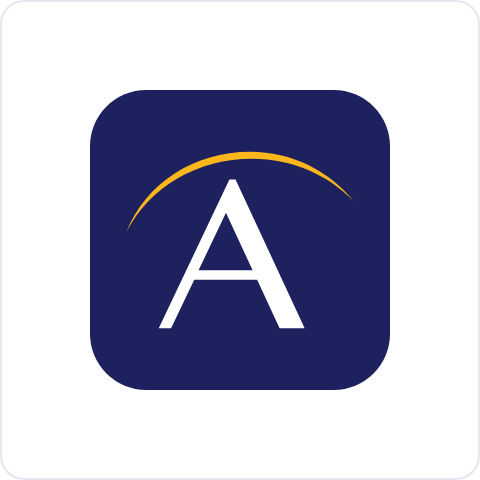
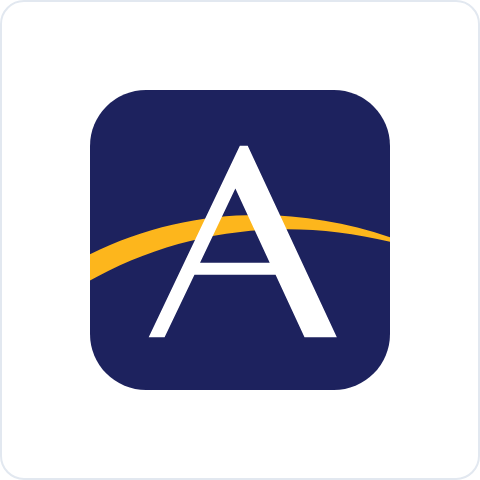
Use the drawn A mark, the arc running through the letter
The mark roles resolve to mark-on-light.svg and mark-on-dark.svg: the A
with the gold arc through it, from the delivered favicon artwork, with
its blue and gold normalised to the lockups. app-icon.svg is the white
mark on a navy square. This replaces the icon assembled in the last
commit.

diff --git a/for-humans/Apex-Paramedics-logo-sheet.html b/for-humans/Apex-Paramedics-logo-sheet.html
@@ -81,6 +81,7 @@ header {
 .plate.horizontal img { width: 2.4in; }
 .plate.compact img { width: 2.1in; }
 .plate.icon img { width: 1in; }
+.plate.mark img { width: 1in; }
 
 .caption {
   color: var(--fg-3);
@@ -138,7 +139,7 @@ footer {
 
   <div class="block">
     <p class="bk-eyebrow eyebrow bk-caps">The marks</p>
-    <h1 class="bk-h1" style="margin:0;">Two lockups and an app icon</h1>
+    <h1 class="bk-h1" style="margin:0;">Two lockups, the A mark and an app icon</h1>
     <p class="bk-body" style="color:var(--fg-2);">
       Pick by the background. The file named <strong>blue</strong> goes on light. The file named <strong>white</strong> goes on dark. The name is the ink of the letters, not the ground. The arc is gold in every file.
     </p>
@@ -161,8 +162,16 @@ footer {
         <p class="bk-caption caption">Compact · white · on dark</p>
       </div>
       <div>
+        <div class="plate light mark"><img src="logos/svg/Apex-Paramedics-mark-blue.svg" alt="Apex A mark in blue"></div>
+        <p class="bk-caption caption">A mark · blue · on light</p>
+      </div>
+      <div>
+        <div class="plate dark mark"><img src="logos/svg/Apex-Paramedics-mark-white.svg" alt="Apex A mark in white"></div>
+        <p class="bk-caption caption">A mark · white · on dark</p>
+      </div>
+      <div>
         <div class="plate light icon"><img src="logos/svg/Apex-Paramedics-app-icon.svg" alt="Apex Paramedics app icon"></div>
-        <p class="bk-caption caption">App icon · favicons and small spaces · any ground</p>
+        <p class="bk-caption caption">App icon · favicons · any ground</p>
       </div>
     </div>
   </div>
@@ -177,7 +186,7 @@ footer {
         <tr><td class="bk-body">Clear space on all four sides</td><td class="bk-body">Height of the gold arc</td></tr>
         <tr><td class="bk-body">Horizontal lockup, minimum</td><td class="bk-body">110 px on screen · 1 inch in print</td></tr>
         <tr><td class="bk-body">Compact lockup, minimum</td><td class="bk-body">80 px on screen · 0.75 inch in print</td></tr>
-        <tr><td class="bk-body">App icon, minimum</td><td class="bk-body">16 px on screen</td></tr>
+        <tr><td class="bk-body">A mark and app icon, minimum</td><td class="bk-body">16 px on screen</td></tr>
         <tr><td class="bk-body">Logo width in a header band</td><td class="bk-body">1.4in to 1.8in</td></tr>
       </tbody>
     </table>

diff --git a/for-humans/README.md b/for-humans/README.md
@@ -28,11 +28,13 @@ Pick by the background you are placing it on. The file named **blue** goes on li
 | <img src="previews/horizontal-white.png" width="250"> | **Horizontal · white**<br>The same lockup for dark blue grounds. | [SVG](logos/svg/Apex-Paramedics-horizontal-white.svg)<br>PNG [1200w](logos/png/Apex-Paramedics-horizontal-white-1200w.png) · [2400w](logos/png/Apex-Paramedics-horizontal-white-2400w.png) |
 | <img src="previews/compact-blue.png" width="250"> | **Compact · blue**<br>`APEX` alone under the arc. Small places, a deck corner, a narrow column. Place on white and light grounds. | [SVG](logos/svg/Apex-Paramedics-compact-blue.svg)<br>PNG [1200w](logos/png/Apex-Paramedics-compact-blue-1200w.png) · [2400w](logos/png/Apex-Paramedics-compact-blue-2400w.png) |
 | <img src="previews/compact-white.png" width="250"> | **Compact · white**<br>The same lockup for dark blue grounds. | [SVG](logos/svg/Apex-Paramedics-compact-white.svg)<br>PNG [1200w](logos/png/Apex-Paramedics-compact-white-1200w.png) · [2400w](logos/png/Apex-Paramedics-compact-white-2400w.png) |
-| <img src="previews/app-icon.png" width="110"> | **App icon**<br>The A under the arc, on a dark blue square. Favicons, app tiles, social avatars, and anywhere too small for the compact lockup. It always keeps its square. | [SVG](logos/svg/Apex-Paramedics-app-icon.svg)<br>PNG [512](logos/png/Apex-Paramedics-app-icon-512w.png) · [1024](logos/png/Apex-Paramedics-app-icon-1024w.png) |
+| <img src="previews/mark-blue.png" width="110"> | **A mark · blue**<br>The A with the arc through it. Avatars, badges and anywhere too small for the compact lockup. Place on white and light grounds. | [SVG](logos/svg/Apex-Paramedics-mark-blue.svg)<br>PNG [512](logos/png/Apex-Paramedics-mark-blue-512w.png) · [1024](logos/png/Apex-Paramedics-mark-blue-1024w.png) |
+| <img src="previews/mark-white.png" width="110"> | **A mark · white**<br>The same mark for dark blue grounds. | [SVG](logos/svg/Apex-Paramedics-mark-white.svg)<br>PNG [512](logos/png/Apex-Paramedics-mark-white-512w.png) · [1024](logos/png/Apex-Paramedics-mark-white-1024w.png) |
+| <img src="previews/app-icon.png" width="110"> | **App icon**<br>The white A mark on a dark blue square. Favicons and app tiles. | [SVG](logos/svg/Apex-Paramedics-app-icon.svg)<br>PNG [512](logos/png/Apex-Paramedics-app-icon-512w.png) · [1024](logos/png/Apex-Paramedics-app-icon-1024w.png) |
 
 **Use the SVG wherever the software will take it.** It is vector, so it stays sharp at any size. The PNGs are for software that will not accept SVG. They have transparent backgrounds, so the white versions look nearly blank until you place them on something dark.
 
-Use the horizontal lockup wherever it fits. The compact one is for places it does not. Under 80 px, use the app icon.
+Use the horizontal lockup wherever it fits. The compact one is for places it does not. Under 80 px, use the A mark.
 
 
 Pasting a URL straight into a design tool works too. The pattern is:
@@ -52,7 +54,7 @@ https://cdn.jsdelivr.net/gh/collective-edge/apex-brand-kit@main/for-humans/logos
 | Clear space on all four sides | Equal to the height of the gold arc |
 | Smallest the horizontal lockup may go | 110 px on screen, 1 inch in print |
 | Smallest the compact lockup may go | 80 px on screen, 0.75 inch in print |
-| Smallest the app icon may go | 16 px on screen |
+| Smallest the A mark and the app icon may go | 16 px on screen |
 | Logo width in a letterhead header band | 1.4in to 1.8in |
 
 ## Do not
@@ -63,6 +65,7 @@ https://cdn.jsdelivr.net/gh/collective-edge/apex-brand-kit@main/for-humans/logos
 - Render the arc in blue or the letters in gold.
 - Add a drop shadow, glow, outline or gradient.
 - Pull the letters apart from the arc, or use the arc on its own. The arc alone is not an Apex logo.
+- Redraw the A mark. Use the file.
 - Use the compact lockup where the horizontal one fits.
 - Put it on a busy photo without a solid backing panel behind it.
 - Crop the clear space to make it fit. Shrink the logo instead, down to the minimum.

diff --git a/README.md b/README.md
@@ -17,7 +17,8 @@ The file named for its ink goes on the opposite background. Full set, sizes and 
 | | For light backgrounds | For dark backgrounds |
 |---|---|---|
 | Horizontal · the main logo | [SVG](for-humans/logos/svg/Apex-Paramedics-horizontal-blue.svg) · [PNG](for-humans/logos/png/Apex-Paramedics-horizontal-blue-1200w.png) | [SVG](for-humans/logos/svg/Apex-Paramedics-horizontal-white.svg) · [PNG](for-humans/logos/png/Apex-Paramedics-horizontal-white-1200w.png) |
-| App icon · favicons and small spaces | [SVG](for-humans/logos/svg/Apex-Paramedics-app-icon.svg) · [PNG](for-humans/logos/png/Apex-Paramedics-app-icon-512w.png) | same file |
+| A mark · small spaces | [SVG](for-humans/logos/svg/Apex-Paramedics-mark-blue.svg) · [PNG](for-humans/logos/png/Apex-Paramedics-mark-blue-512w.png) | [SVG](for-humans/logos/svg/Apex-Paramedics-mark-white.svg) · [PNG](for-humans/logos/png/Apex-Paramedics-mark-white-512w.png) |
+| App icon · favicons | [SVG](for-humans/logos/svg/Apex-Paramedics-app-icon.svg) · [PNG](for-humans/logos/png/Apex-Paramedics-app-icon-512w.png) | same file |
 | Compact | [SVG](for-humans/logos/svg/Apex-Paramedics-compact-blue.svg) · [PNG](for-humans/logos/png/Apex-Paramedics-compact-blue-1200w.png) | [SVG](for-humans/logos/svg/Apex-Paramedics-compact-white.svg) · [PNG](for-humans/logos/png/Apex-Paramedics-compact-white-1200w.png) |
 
 ## The house
@@ -74,7 +75,7 @@ apex-brand-kit/
 └── assets/
     ├── colors.json                 DEPRECATED. Replaced by tokens.json.
     ├── fonts/Montserrat-VariableFont_wght.ttf
-    └── logos/                      horizontal and compact, color and white, the app icon, plus the source EPS.
+    └── logos/                      horizontal, compact and the A mark, color and white, the app icon, plus the source EPS.
 ```
 
 Sixteen files are byte-identical in every kit, covering the type layer, the UI layer, the data color layer and the tooling. `scripts/check-sync.py` carries the list and fails if any of them drifts. Never edit a shared file in this repo alone.
@@ -121,13 +122,16 @@ Ask for a role, never a filename. `-on-light` is the file you place on a light b
 | `horizontal-on-dark` | `assets/logos/horizontal-white.svg` |
 | `compact-on-light` | `assets/logos/compact-on-light.svg` |
 | `compact-on-dark` | `assets/logos/compact-on-dark.svg` |
-| `mark-on-light`, `mark-on-dark` | Apex has none. Use the compact lockup. |
-| `app-icon` | `assets/logos/app-icon.svg` · favicons, app tiles, and spaces under 80px |
+| `mark-on-light` | `assets/logos/mark-on-light.svg` |
+| `mark-on-dark` | `assets/logos/mark-on-dark.svg` |
+| `app-icon` | `assets/logos/app-icon.svg` · the mark on a navy square, for favicons and app tiles |
 | `stacked-on-dark` | Apex has none. Use `horizontal-on-dark`. |
 
 The horizontal lockup is the main logo, `APEX PARAMEDICS`, at 110px and up. The compact lockup is `APEX` alone, for smaller places, decks, or a corner, at 80px and up.
 
-**The gold arc never appears on its own.** A favicon, an app tile, or a space too small for the compact lockup uses `app-icon.svg`: the A under the arc, on a navy square. `mark-color.svg` and `mark-white.svg` held the arc alone. They are deleted, and `scripts/validate.py` fails on any reference to them.
+The mark is the A with the gold arc running through it. Use it for a favicon, an avatar, or any space too small for the compact lockup. `app-icon.svg` is the same mark on a navy square.
+
+**The gold arc never appears on its own.** `mark-color.svg` and `mark-white.svg` held the arc alone. They are deleted, and `scripts/validate.py` fails on any reference to them.
 
 Reference the CDN URL directly with `<img src="...">`. The repository is public and jsDelivr needs no auth. `assets/logos/source/apex-paramedics-PMS123-PMS072.eps` is the authoritative master for any re-export.
 

diff --git a/reference/brand.md b/reference/brand.md
@@ -154,11 +154,12 @@ Status indicators stay in the status set. Decorative off-brand color is still ne
 |---|---|---|
 | Horizontal | The blue `APEX PARAMEDICS` wordmark under the gold arc | The main logo. Default for any context with horizontal room |
 | Compact | `APEX` alone under the gold arc | Smaller places, decks, or a corner |
-| App icon | The A under the gold arc, on an Apex Blue Deep `#1D225E` square | Favicons, app tiles, social avatars, and any space too small for the compact lockup. `assets/logos/app-icon.svg` |
+| Mark | The A with the gold arc running through it | Avatars, badges, table corners, and any space too small for the compact lockup |
+| App icon | The white mark on an Apex Blue Deep `#1D225E` square | Favicons and app tiles. `assets/logos/app-icon.svg` |
 
-The gold arc never appears without the letters, at any size. The arc-only files `mark-color.svg` and `mark-white.svg` are deleted, and `scripts/validate.py` fails on any reference to them. Where another brand would place a mark, Apex places the compact lockup, and below its 80px minimum, the app icon.
+The gold arc never appears on its own, at any size. The arc-only files `mark-color.svg` and `mark-white.svg` are deleted, and `scripts/validate.py` fails on any reference to them.
 
-The app icon is built from the lockup’s own A and arc, the arc scaled to sit over the one letter. It has no light-ground variant. It always carries its navy square.
+In the mark the arc is cut square at the left and right edges of the box. That is the drawing, not a cropping error. The delivered files carried `#000F9F` and `#FFB71B`, normalised here to `#2B338D` and `#FDB61C` like the compact lockup.
 
 Apex has no stacked lockup. Where a vertical lockup is needed, use the horizontal one at reduced width.
 
@@ -170,13 +171,14 @@ Apex has no stacked lockup. Where a vertical lockup is needed, use the horizonta
 | Horizontal aspect | 2.378 : 1 |
 | Compact viewBox | `0 0 682.3 240.66` |
 | Compact aspect | 2.835 : 1 |
-| App icon viewBox | `0 0 64 64` |
+| Mark viewBox | `0 0 300 299.36` |
+| App icon viewBox | `0 0 300 300` |
 | Wordmark color | Apex Blue `#2B338D`, or `#FFFFFF` on dark |
 | Arc color | Apex Gold `#FDB61C`, on both light and dark |
 | Minimum clear space | Padding on all four sides equal to at least the height of the gold arc |
 | Minimum size, horizontal | 110px on screen, 1 inch in print |
 | Minimum size, compact | 80px on screen, 0.75 inch in print |
-| Minimum size, app icon | 32px, and 16px as a browser tab icon |
+| Minimum size, mark and app icon | 16px |
 | Vector master | `assets/logos/source/apex-paramedics-PMS123-PMS072.eps` |
 
 The shipping SVGs are converted from the EPS, which remains the authoritative master for any future re-export.
@@ -198,7 +200,7 @@ The `-on-dark` SVG is the correct file for the `#1D225E` band. Where only the co
 - Do not recolor the logo to anything other than Apex Blue plus Apex Gold, or white plus gold on dark.
 - Do not apply a CSS filter to invert or recolor a variant. Load the correct file for the ground.
 - Do not add a drop shadow, glow, outline or gradient.
-- Do not separate the wordmark from the arc, in either lockup. The arc alone is not an Apex logo.
+- Do not separate the wordmark from the arc, in either lockup, or the A from the arc in the mark. The arc alone is not an Apex logo.
 - Do not use the compact lockup where the horizontal one fits. `APEX PARAMEDICS` is the main logo.
 - Do not render the arc in blue or the wordmark in gold.
 - Do not reproduce the logo below its minimum size.

diff --git a/for-agents/README.md b/for-agents/README.md
@@ -49,11 +49,13 @@ Ask for a role, never a filename. Filenames differ between brands. `-on-light` i
 | `horizontal-on-dark` | `https://cdn.jsdelivr.net/gh/collective-edge/apex-brand-kit@main/assets/logos/horizontal-white.svg` | A dark background |
 | `compact-on-light` | `https://cdn.jsdelivr.net/gh/collective-edge/apex-brand-kit@main/assets/logos/compact-on-light.svg` | A light background |
 | `compact-on-dark` | `https://cdn.jsdelivr.net/gh/collective-edge/apex-brand-kit@main/assets/logos/compact-on-dark.svg` | A dark background |
-| `app-icon` | `https://cdn.jsdelivr.net/gh/collective-edge/apex-brand-kit@main/assets/logos/app-icon.svg` | Favicons, app tiles, spaces under 80px |
+| `mark-on-light` | `https://cdn.jsdelivr.net/gh/collective-edge/apex-brand-kit@main/assets/logos/mark-on-light.svg` | A light background |
+| `mark-on-dark` | `https://cdn.jsdelivr.net/gh/collective-edge/apex-brand-kit@main/assets/logos/mark-on-dark.svg` | A dark background |
+| `app-icon` | `https://cdn.jsdelivr.net/gh/collective-edge/apex-brand-kit@main/assets/logos/app-icon.svg` | Favicons and app tiles. Carries its own navy square |
 
 `stacked-on-dark` does not exist for this brand. Use `horizontal-on-dark`.
 
-`mark-on-light` and `mark-on-dark` do not exist for this brand. The arc-only files are deleted and `validate.py` fails on any reference to them. Use the compact lockup, or `app-icon` under 80px.
+The mark is the A with the arc through it. The old arc-only files `mark-color.svg` and `mark-white.svg` are deleted, and `validate.py` fails on any reference to them.
 
 Embed with `<img src="...">`. Do not inline a copied SVG path, because it drifts from the master.
 
@@ -93,7 +95,7 @@ https://cdn.jsdelivr.net/gh/collective-edge/apex-brand-kit@main/tokens.json
 3. Apex Blue Light `#9699C7` is never text. It measures 2.74:1 on white.
 4. Gold is a brand accent, never a status color. Warnings use `--status-warn`.
 5. Use the horizontal lockup wherever it fits. Compact is for where it does not.
-6. The gold arc never appears without the letters. On a slide corner or a badge, use the compact lockup. For a favicon, or anywhere under 80px wide, use `app-icon`, the A under the arc on a navy square.
+6. The gold arc never appears without the letters. Under 80px wide, use the mark, the A with the arc through it. For a favicon, use `app-icon`.
 7. Chart and dashboard color comes from `data-color.css`, in series order. A brand color is never a chart series.
 8. Match the logo file to the background. Never recolor or invert a logo with CSS.
 9. Montserrat only, weights 400 to 800. No italic, at any weight.

diff --git a/SKILL.md b/SKILL.md
@@ -46,7 +46,8 @@ Ask for a role, never a filename. `-on-light` is the file you place **on** a lig
 | `horizontal-on-dark` | `horizontal-white.svg` | `https://cdn.jsdelivr.net/gh/collective-edge/apex-brand-kit@main/assets/logos/horizontal-white.svg` |
 | `compact-on-light` | `compact-on-light.svg` | `https://cdn.jsdelivr.net/gh/collective-edge/apex-brand-kit@main/assets/logos/compact-on-light.svg` |
 | `compact-on-dark` | `compact-on-dark.svg` | `https://cdn.jsdelivr.net/gh/collective-edge/apex-brand-kit@main/assets/logos/compact-on-dark.svg` |
-| `mark-on-light`, `mark-on-dark` | none | The gold arc never appears without the letters. Use `compact-on-light` or `compact-on-dark`, or `app-icon` under 80px |
+| `mark-on-light` | `mark-on-light.svg` | `https://cdn.jsdelivr.net/gh/collective-edge/apex-brand-kit@main/assets/logos/mark-on-light.svg` |
+| `mark-on-dark` | `mark-on-dark.svg` | `https://cdn.jsdelivr.net/gh/collective-edge/apex-brand-kit@main/assets/logos/mark-on-dark.svg` |
 | `app-icon` | `app-icon.svg` | `https://cdn.jsdelivr.net/gh/collective-edge/apex-brand-kit@main/assets/logos/app-icon.svg` |
 | `stacked-on-dark` | none | Apex has no stacked lockup. Use `horizontal-on-dark`. |
 
@@ -168,7 +169,7 @@ It checks rules 1, 2, 5, 9, 10, 13 and 14 mechanically and exits non-zero on a v
 - [ ] Montserrat actually rendered, not a fallback. For PDF, actually embedded in the file.
 - [ ] No italic anywhere.
 - [ ] Correct logo role for the ground. White variant on `#1D225E`, never a CSS filter.
-- [ ] Clear space held. Horizontal logo at least 110px wide, compact at least 80px. The arc never appears without the letters.
+- [ ] Clear space held. Horizontal logo at least 110px wide, compact at least 80px, mark at least 16px. The arc never appears on its own.
 - [ ] “Powered by Collective Edge” on the footer, the sidebar or the closing slide. Once, beside the Apex mark and never inside it.
 - [ ] Bright gold `#FDB61C` nowhere near body text on white.
 - [ ] Dark bands one weight lighter than their light-surface equivalent, down to the 600 floor.
